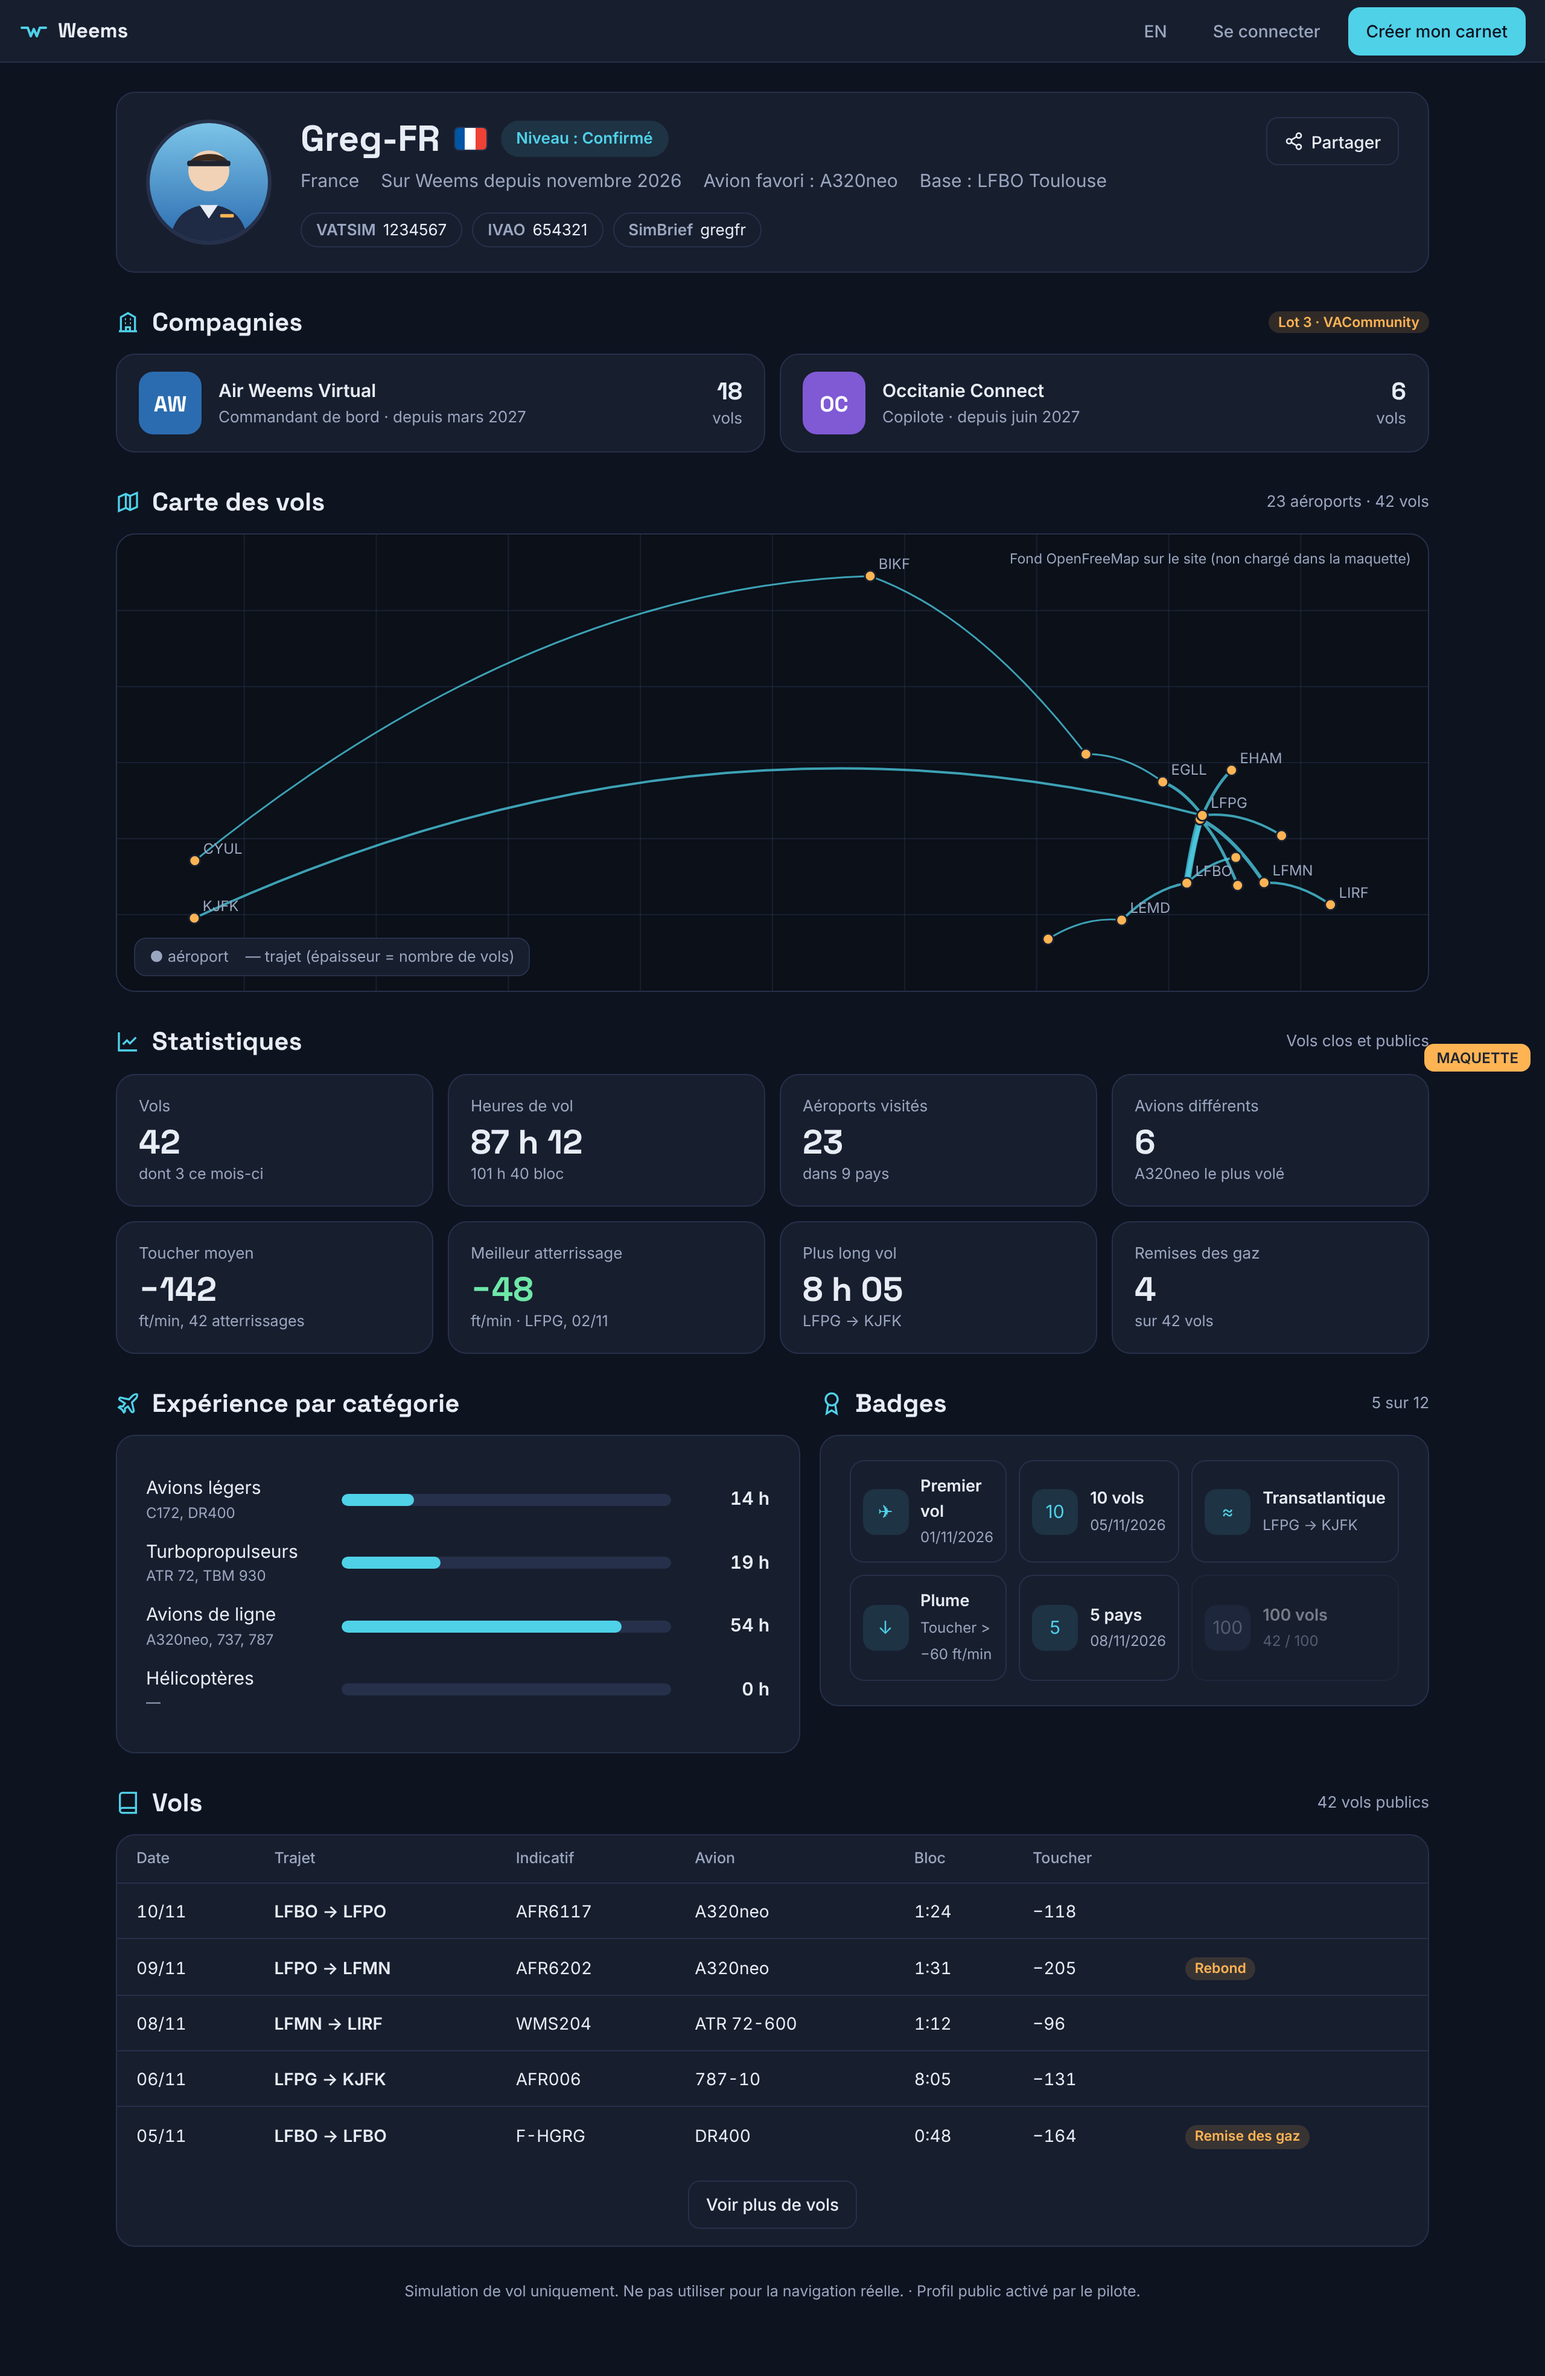
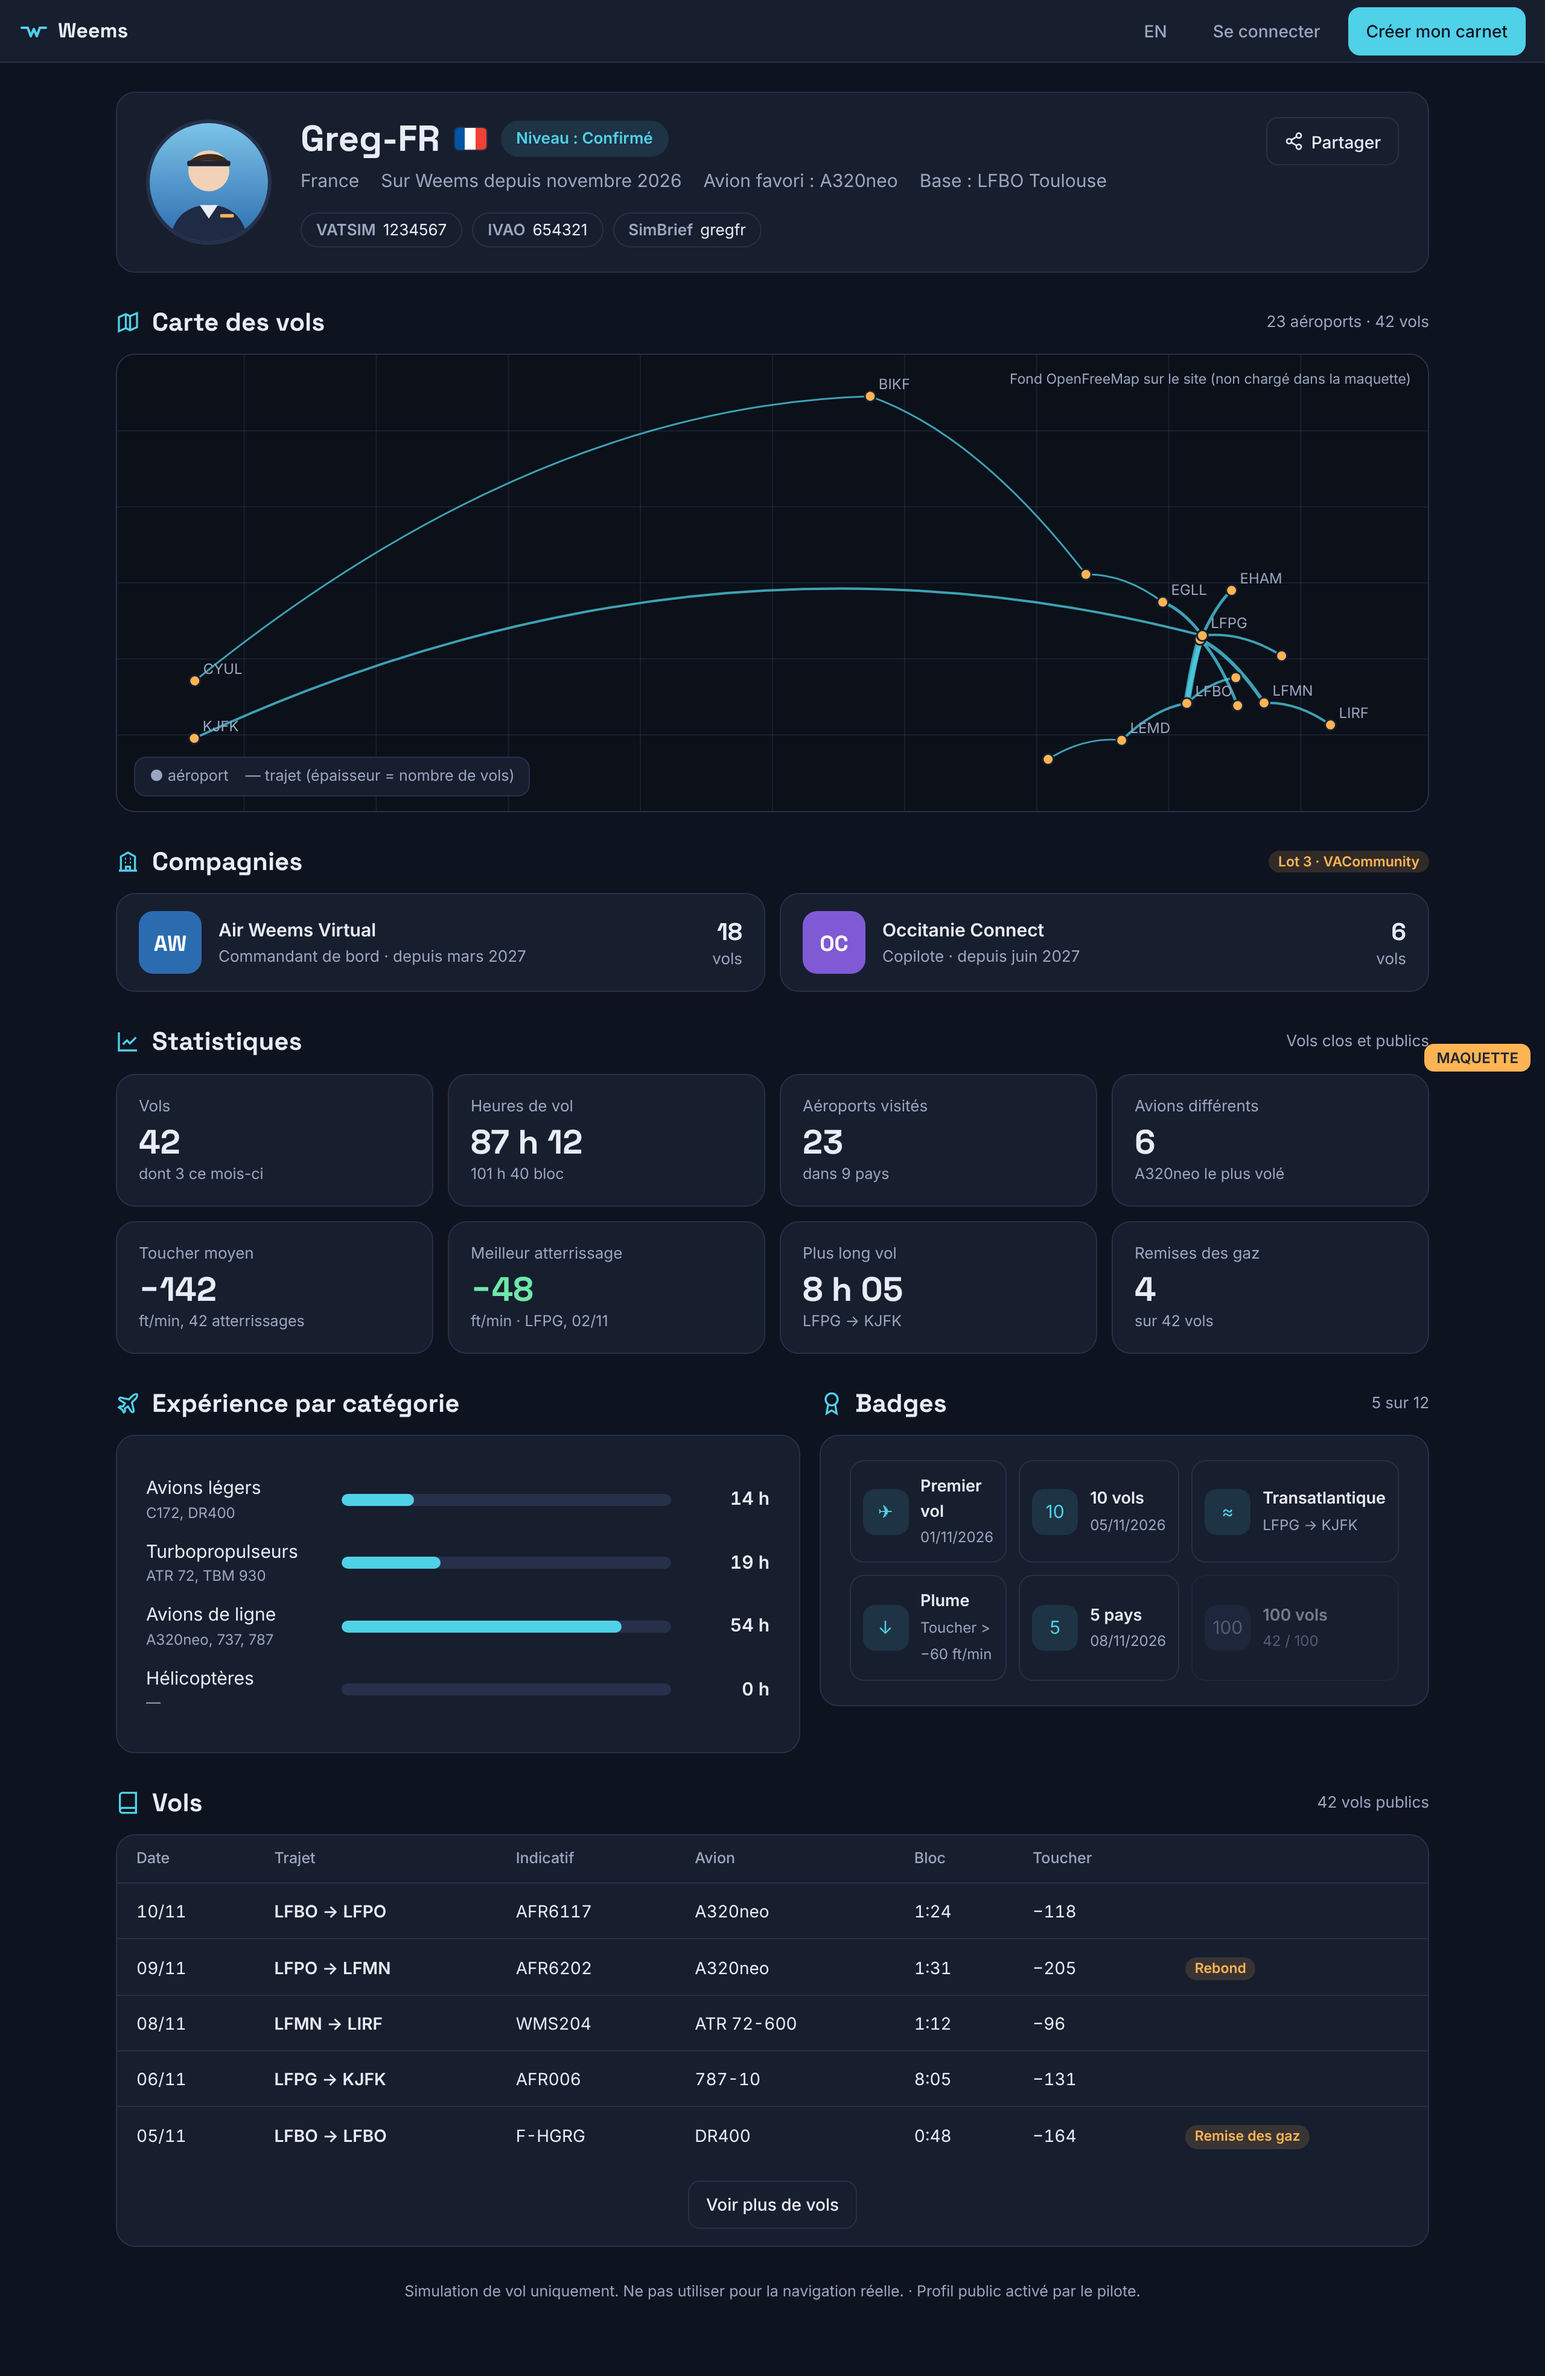
docs(j4): carte des vols sous l'en-tête du profil
Claude-Session: https://claude.ai/code/session_01N46qzV3MxXmsdYZrydt2jy

diff --git a/docs/cahiers-des-charges/spec-J4-profil-public.md b/docs/cahiers-des-charges/spec-J4-profil-public.md
@@ -65,7 +65,7 @@ Règles :
 - En-tête : photo (initiales à défaut), pseudo, drapeau et nom du pays, niveau déclaré, « sur Weems depuis » (date d'activation), avion le plus volé, liens vers les pages VATSIM et IVAO du pilote, bouton « Partager ».
 - Statistiques : nombre de vols, heures de vol (temps en vol) et heures bloc, aéroports différents visités, nombre d'avions différents, taux de chute moyen au toucher et meilleur atterrissage (le plus doux), plus long vol, nombre de remises des gaz.
 - Liste des vols, du plus récent au plus ancien, 20 par page : date, indicatif, trajet, avion, temps bloc, pastilles (remise des gaz, rebond…). Même tableau que « Mes vols », sans filtres.
-- **Carte des vols** (juste sous les compagnies, au-dessus des statistiques, demande de Greg) : un arc par trajet entre départ et arrivée, plus épais quand le trajet est volé souvent, un point par aéroport. Les coordonnées viennent du premier et du dernier point de la trajectoire de chaque vol (pas besoin de l'import OurAirports) ; un vol sans trajectoire n'est pas dessiné. Une route API dédiée renvoie les trajets agrégés (`GET /v1/pilots/{handle}/routes`), pas les trajectoires complètes : la page reste légère quel que soit le nombre de vols.
+- **Carte des vols** (juste sous l'en-tête, au-dessus des compagnies et des statistiques, demande de Greg) : un arc par trajet entre départ et arrivée, plus épais quand le trajet est volé souvent, un point par aéroport. Les coordonnées viennent du premier et du dernier point de la trajectoire de chaque vol (pas besoin de l'import OurAirports) ; un vol sans trajectoire n'est pas dessiné. Une route API dédiée renvoie les trajets agrégés (`GET /v1/pilots/{handle}/routes`), pas les trajectoires complètes : la page reste légère quel que soit le nombre de vols.
 
 **Vol public** (`/pilots/{handle}/flights/{id}`) : la page de vol existante (carte colorée par phase, profil vertical, phases, atterrissage, journal), en lecture seule, avec un lien vers le profil. Le vol doit appartenir au pilote de l'adresse, sinon 404.
 
